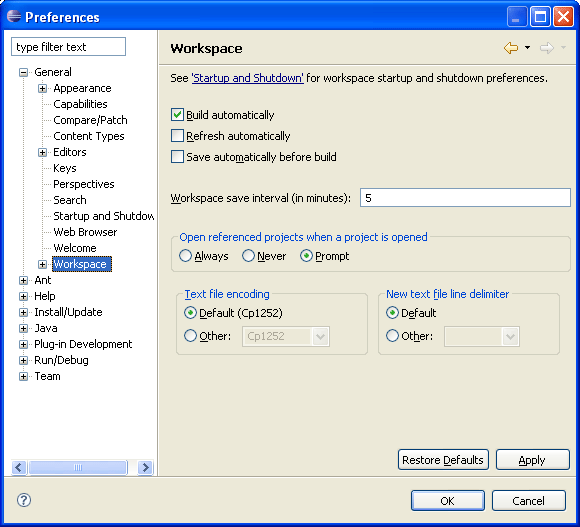
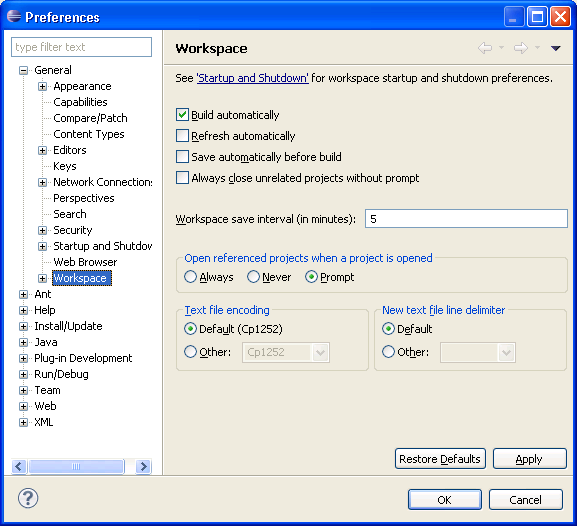
Bug 269844 [GlobalActions] "Close Unrelated Projects" is dangerous and needs confirmation

diff --git a/bundles/org.eclipse.platform.doc.user/reference/ref-9.htm b/bundles/org.eclipse.platform.doc.user/reference/ref-9.htm
@@ -2,7 +2,7 @@
 <html lang="en">
 <head>
 
-<meta name="copyright" content="Copyright (c) IBM Corporation and others 2000, 2005. This page is made available under license. For full details see the LEGAL in the documentation book that contains this page." >
+<meta name="copyright" content="Copyright (c) IBM Corporation and others 2000, 2009. This page is made available under license. For full details see the LEGAL in the documentation book that contains this page." >
 
    <meta http-equiv="Content-Type" content="text/html; charset=iso-8859-1">
    <meta http-equiv="Content-Style-Type" content="text/css">
@@ -41,6 +41,13 @@
       will automatically save all resources that have been modified since the 
       last build was performed.<br></td>
     <td>Off<br></td>
+  </tr>
+  <tr> 
+    <td>Always close unrelated projects without prompt</td>
+    <td>If this option is selected, unrelated projects will be closed without prompt.
+    <br>Uncheck this option if you want to be asked first.
+     </td>
+    <td>Off</td>
   </tr>
   <tr> 
     <td>Workspace save interval (in minutes) </td>
